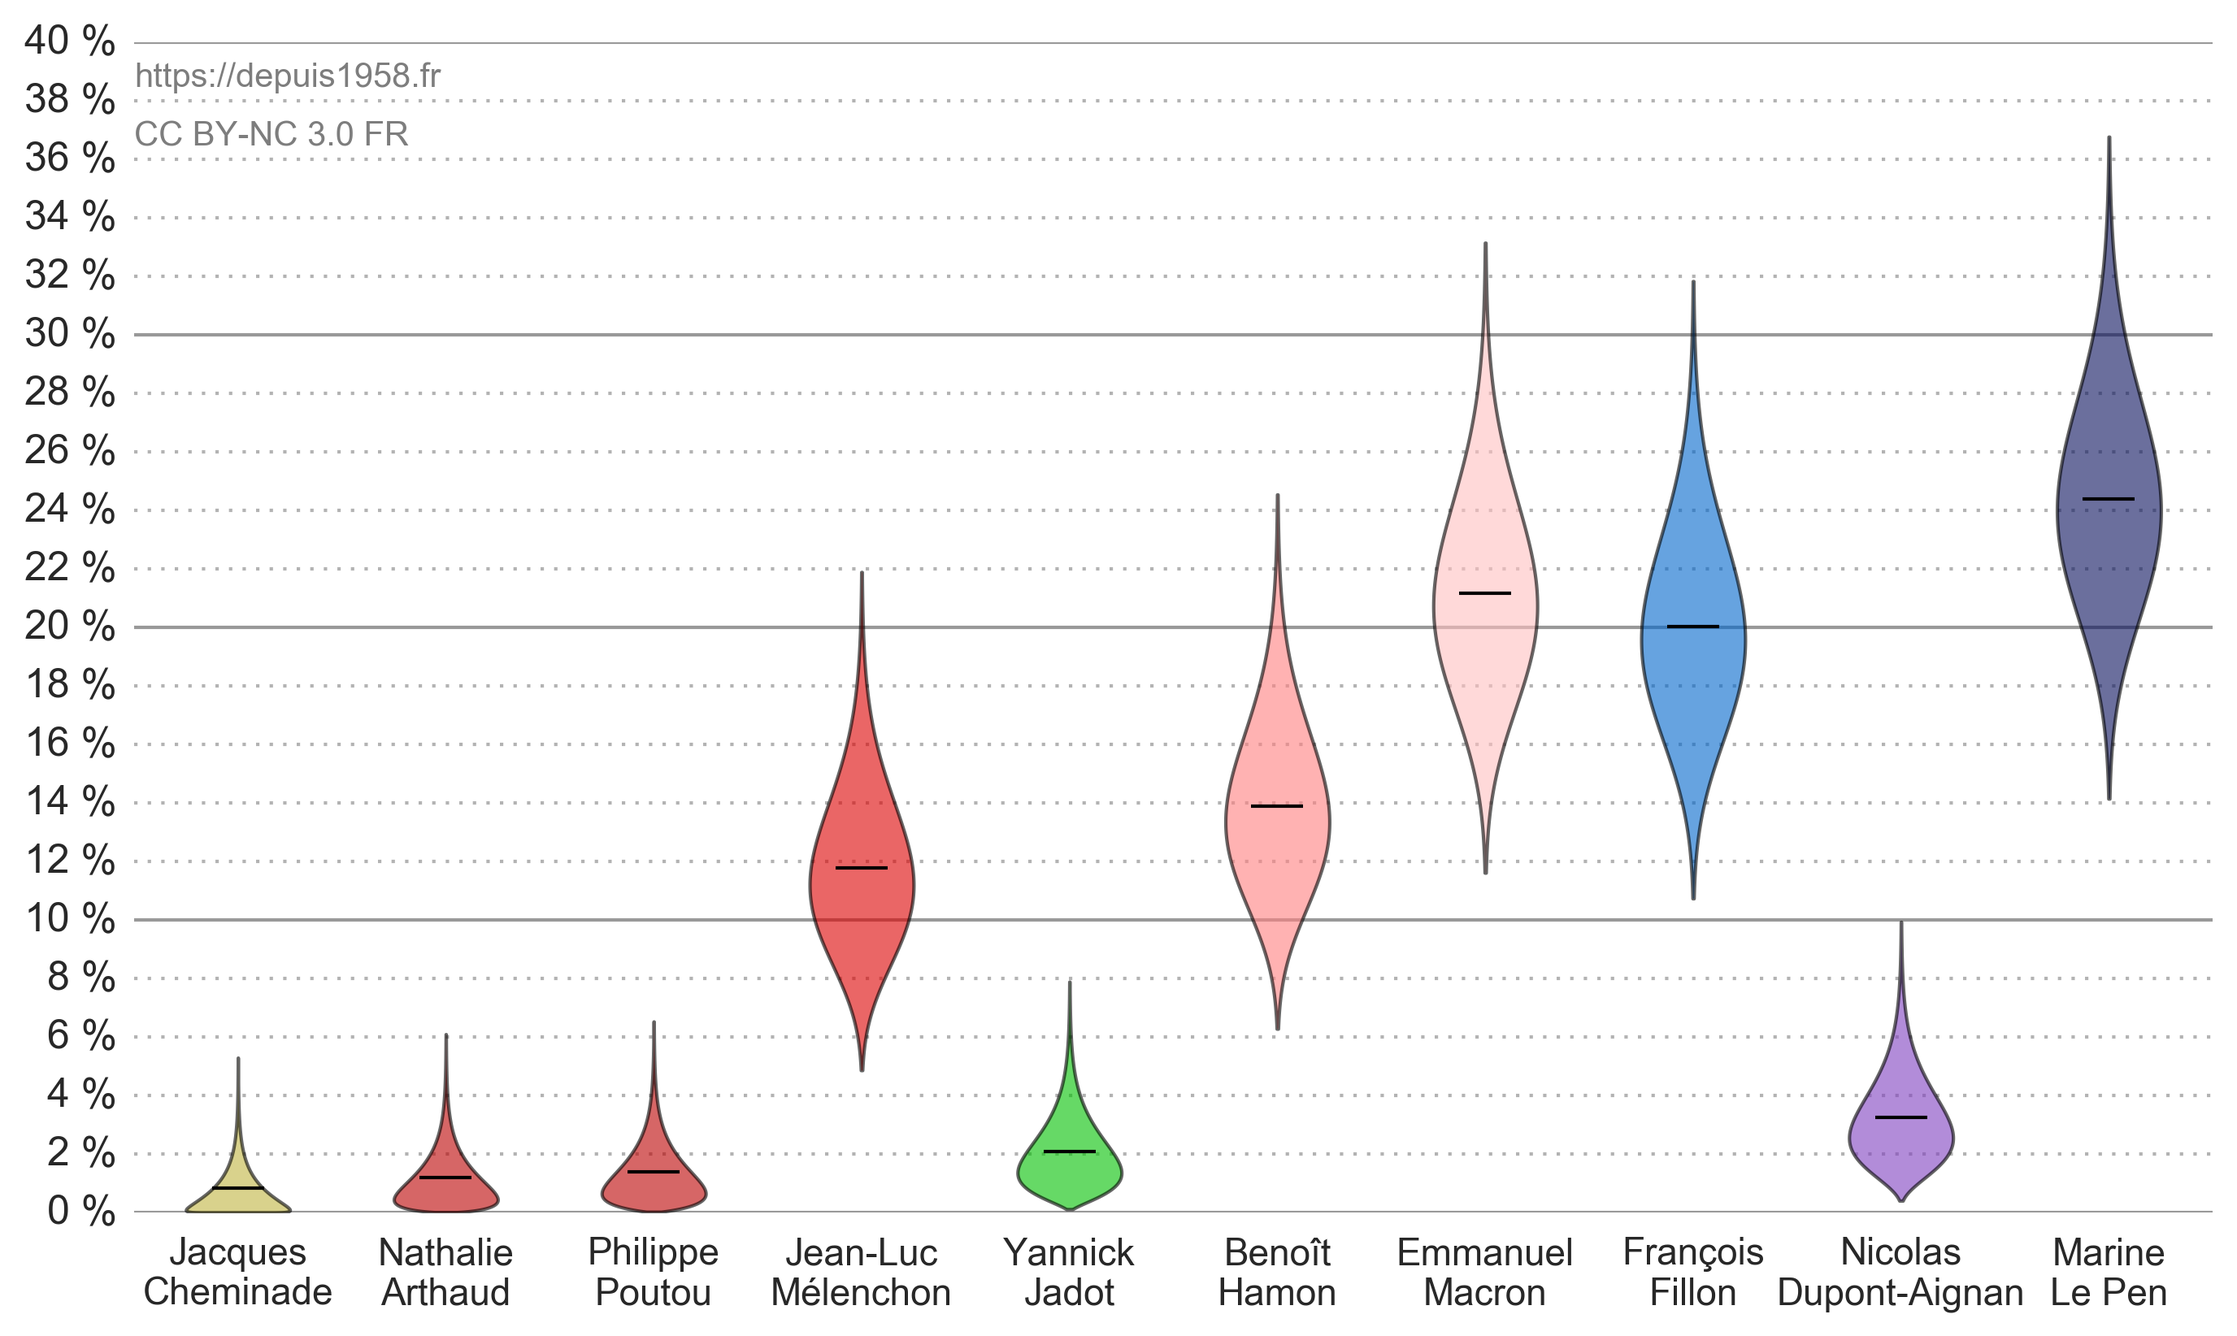
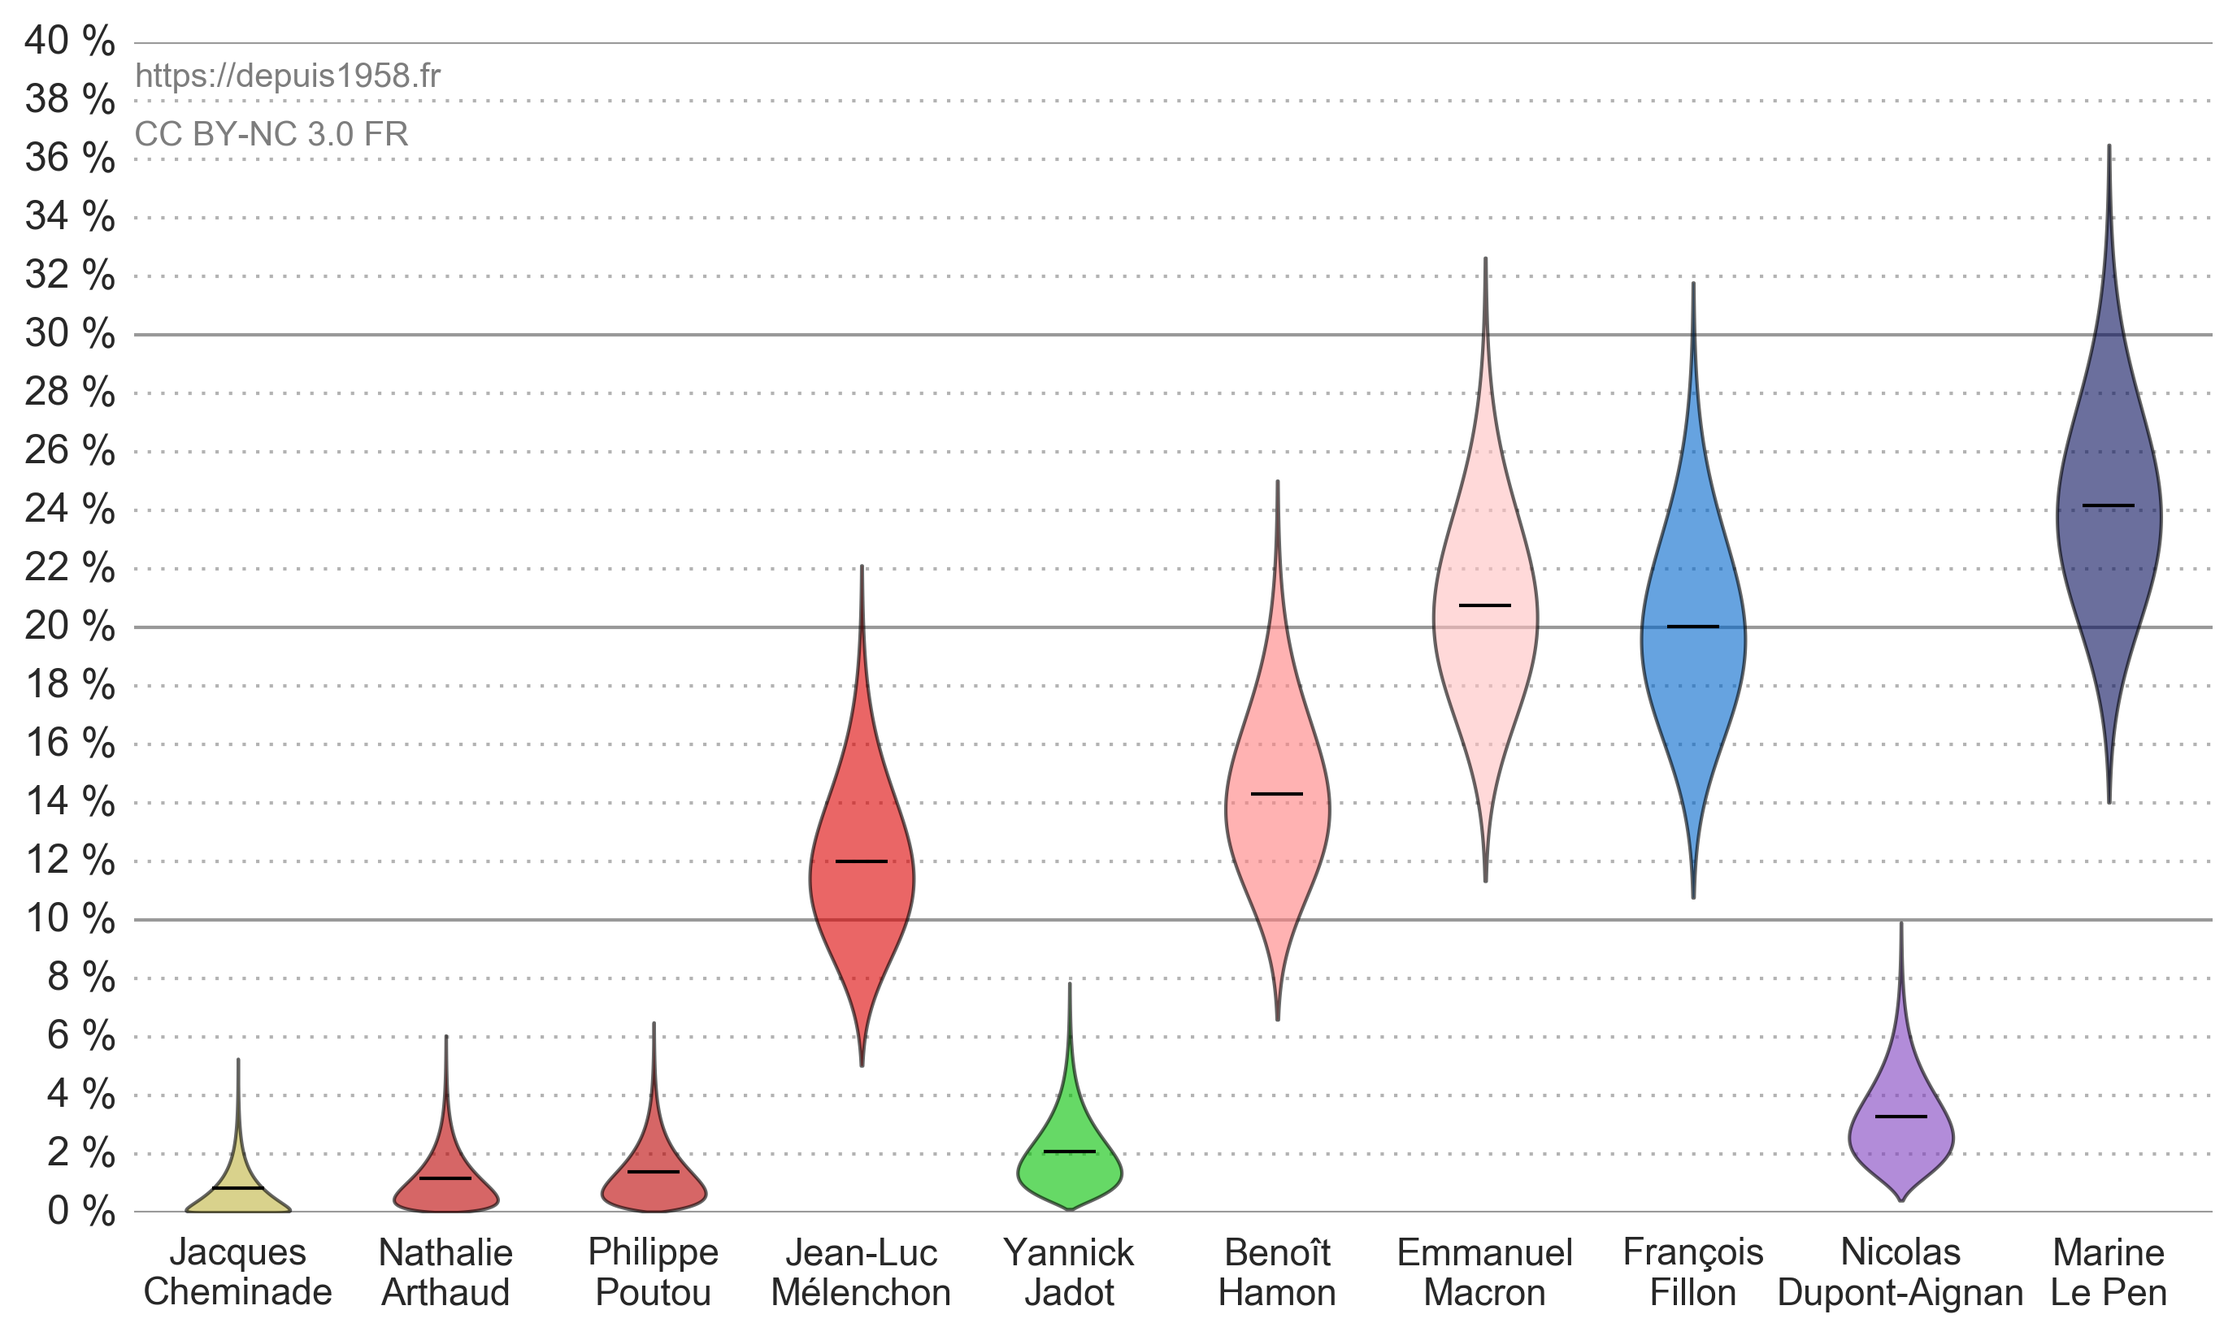
update

diff --git a/public/index.html b/public/index.html
@@ -14,8 +14,8 @@
 <img id="logo" src="/logo.png" alt="Depuis 1958">
 </a>
 <aside>
-    Mis à jour le 08/02/2017 à 22:36<br>
-    40 sondages agrégés<br>
+    Mis à jour le 10/02/2017 à 19:53<br>
+    43 sondages agrégés<br>
     5 000 000 scrutins simulés<br>
 </aside>
 <nav>
@@ -51,7 +51,7 @@ simulation Monte-Carlo. Bref on prédit qui va gagner. Peut&#8209;être.</p>
         <span class="center"><strong>Emmanuel Macron</strong></span>
     <div class="badge" style="background-color:#FFC0C0;"></div>
     </td>
-    <td class="column-percent column-2 percentage">57.9&nbsp;%</td>
+    <td class="column-percent column-2 percentage">54.6&nbsp;%</td>
 </tr>
 
 <tr class="">
@@ -59,7 +59,7 @@ simulation Monte-Carlo. Bref on prédit qui va gagner. Peut&#8209;être.</p>
         <span class="center"><strong>François Fillon</strong></span>
     <div class="badge" style="background-color:#0066CC;"></div>
     </td>
-    <td class="column-percent column-2 percentage">37.1&nbsp;%</td>
+    <td class="column-percent column-2 percentage">39.0&nbsp;%</td>
 </tr>
 
 <tr class="">
@@ -67,7 +67,7 @@ simulation Monte-Carlo. Bref on prédit qui va gagner. Peut&#8209;être.</p>
         <span class="center"><strong>Marine Le Pen</strong></span>
     <div class="badge" style="background-color:#08105c;"></div>
     </td>
-    <td class="column-percent column-2 percentage">2.6&nbsp;%</td>
+    <td class="column-percent column-2 percentage">3.2&nbsp;%</td>
 </tr>
 
 <tr class="">
@@ -75,7 +75,7 @@ simulation Monte-Carlo. Bref on prédit qui va gagner. Peut&#8209;être.</p>
         <span class="center"><strong>Benoît Hamon</strong></span>
     <div class="badge" style="background-color:#FF8080;"></div>
     </td>
-    <td class="column-percent column-2 percentage">1.9&nbsp;%</td>
+    <td class="column-percent column-2 percentage">2.6&nbsp;%</td>
 </tr>
 
 <tr class="">
@@ -83,7 +83,7 @@ simulation Monte-Carlo. Bref on prédit qui va gagner. Peut&#8209;être.</p>
         <span class="center"><strong>Jean-Luc Mélenchon</strong></span>
     <div class="badge" style="background-color:#DD0000;"></div>
     </td>
-    <td class="column-percent column-2 percentage">0.5&nbsp;%</td>
+    <td class="column-percent column-2 percentage">0.6&nbsp;%</td>
 </tr>
 
 <tr class="hiddable">
@@ -152,7 +152,7 @@ deux tours.</p>
 
 <tr class="">
     <td rowspan="2" class="column-percent column-1 percentage">
-        49.2&nbsp;%
+        45.9&nbsp;%
     </td>
     <td class="column-candidate column-2 inner-top">
         <div class="side-badge" style="background-color:#FFC0C0"></div>
@@ -174,7 +174,7 @@ deux tours.</p>
 
 <tr class="">
     <td rowspan="2" class="column-percent column-1 percentage">
-        34.5&nbsp;%
+        36.5&nbsp;%
     </td>
     <td class="column-candidate column-2 inner-top">
         <div class="side-badge" style="background-color:#0066CC"></div>
@@ -196,7 +196,7 @@ deux tours.</p>
 
 <tr class="">
     <td rowspan="2" class="column-percent column-1 percentage">
-        11.5&nbsp;%
+        11.3&nbsp;%
     </td>
     <td class="column-candidate column-2 inner-top">
         <div class="side-badge" style="background-color:#FFC0C0"></div>
@@ -218,7 +218,7 @@ deux tours.</p>
 
 <tr class="">
     <td rowspan="2" class="column-percent column-1 percentage">
-        2.6&nbsp;%
+        3.5&nbsp;%
     </td>
     <td class="column-candidate column-2 inner-top">
         <div class="side-badge" style="background-color:#FF8080"></div>
@@ -240,7 +240,7 @@ deux tours.</p>
 
 <tr class="">
     <td rowspan="2" class="column-percent column-1 percentage">
-        0.7&nbsp;%
+        0.9&nbsp;%
     </td>
     <td class="column-candidate column-2 inner-top">
         <div class="side-badge" style="background-color:#FF8080"></div>
@@ -262,7 +262,7 @@ deux tours.</p>
 
 <tr class="hiddable">
     <td rowspan="2" class="column-percent column-1 percentage">
-        0.7&nbsp;%
+        0.8&nbsp;%
     </td>
     <td class="column-candidate column-2 inner-top">
         <div class="side-badge" style="background-color:#08105c"></div>
@@ -284,7 +284,7 @@ deux tours.</p>
 
 <tr class="hiddable">
     <td rowspan="2" class="column-percent column-1 percentage">
-        0.5&nbsp;%
+        0.7&nbsp;%
     </td>
     <td class="column-candidate column-2 inner-top">
         <div class="side-badge" style="background-color:#0066CC"></div>
@@ -328,7 +328,7 @@ deux tours.</p>
 
 <tr class="hiddable">
     <td rowspan="2" class="column-percent column-1 percentage">
-        0.1&nbsp;%
+        0.2&nbsp;%
     </td>
     <td class="column-candidate column-2 inner-top">
         <div class="side-badge" style="background-color:#0066CC"></div>
@@ -364,28 +364,6 @@ deux tours.</p>
     <td class="column-candidate column-2 inner-bottom">
         <div class="side-badge" style="background-color:#DD0000"></div>
     <strong>Jean-Luc Mélenchon</strong>
-    </td>
-    <td class="column-percent column-3 inner-bottom percentage">
-        -
-    </td>
-</tr>
-
-<tr class="hiddable">
-    <td rowspan="2" class="column-percent column-1 percentage">
-        0.0&nbsp;%
-    </td>
-    <td class="column-candidate column-2 inner-top">
-        <div class="side-badge" style="background-color:#8040C0"></div>
-    <strong>Nicolas Dupont-Aignan</strong>
-    </td>
-    <td class="column-percent column-3 inner-top percentage">
-        -
-    </td>
-</tr>
-<tr class="hiddable">
-    <td class="column-candidate column-2 inner-bottom">
-        <div class="side-badge" style="background-color:#08105c"></div>
-    <strong>Marine Le Pen</strong>
     </td>
     <td class="column-percent column-3 inner-bottom percentage">
         -
@@ -826,6 +804,28 @@ deux tours.</p>
     <td class="column-candidate column-2 inner-bottom">
         <div class="side-badge" style="background-color:#00C000"></div>
     <strong>Yannick Jadot</strong>
+    </td>
+    <td class="column-percent column-3 inner-bottom percentage">
+        -
+    </td>
+</tr>
+
+<tr class="hiddable">
+    <td rowspan="2" class="column-percent column-1 percentage">
+        0.0&nbsp;%
+    </td>
+    <td class="column-candidate column-2 inner-top">
+        <div class="side-badge" style="background-color:#8040C0"></div>
+    <strong>Nicolas Dupont-Aignan</strong>
+    </td>
+    <td class="column-percent column-3 inner-top percentage">
+        -
+    </td>
+</tr>
+<tr class="hiddable">
+    <td class="column-candidate column-2 inner-bottom">
+        <div class="side-badge" style="background-color:#08105c"></div>
+    <strong>Marine Le Pen</strong>
     </td>
     <td class="column-percent column-3 inner-bottom percentage">
         -
@@ -1175,17 +1175,17 @@ et leurs propriétés statistiques sont pris en compte.</p>
     <td class="column-candidate column-1">
         <strong>Marine Le Pen</strong>
     </td>
-    <td class="column-percent percentage">87.0&nbsp;%</td>
-    <td class="column-percent percentage">11.5&nbsp;%</td>
-    <td class="column-percent percentage">96.7&nbsp;%</td>
+    <td class="column-percent percentage">86.7&nbsp;%</td>
+    <td class="column-percent percentage">11.4&nbsp;%</td>
+    <td class="column-percent percentage">96.3&nbsp;%</td>
 </tr>
 
 <tr>
     <td class="column-candidate column-1">
         <strong>Emmanuel Macron</strong>
     </td>
-    <td class="column-percent percentage">61.6&nbsp;%</td>
-    <td class="column-percent percentage">31.2&nbsp;%</td>
+    <td class="column-percent percentage">58.4&nbsp;%</td>
+    <td class="column-percent percentage">32.2&nbsp;%</td>
     <td class="column-percent percentage">-</td>
 </tr>
 
@@ -1193,8 +1193,8 @@ et leurs propriétés statistiques sont pris en compte.</p>
     <td class="column-candidate column-1">
         <strong>François Fillon</strong>
     </td>
-    <td class="column-percent percentage">46.6&nbsp;%</td>
-    <td class="column-percent percentage">41.7&nbsp;%</td>
+    <td class="column-percent percentage">48.7&nbsp;%</td>
+    <td class="column-percent percentage">38.5&nbsp;%</td>
     <td class="column-percent percentage">2.5&nbsp;%</td>
 </tr>
 
@@ -1202,8 +1202,8 @@ et leurs propriétés statistiques sont pris en compte.</p>
     <td class="column-candidate column-1">
         <strong>Benoît Hamon</strong>
     </td>
-    <td class="column-percent percentage">3.8&nbsp;%</td>
-    <td class="column-percent percentage">11.5&nbsp;%</td>
+    <td class="column-percent percentage">5.1&nbsp;%</td>
+    <td class="column-percent percentage">13.3&nbsp;%</td>
     <td class="column-percent percentage">0.0&nbsp;%</td>
 </tr>
 
@@ -1211,9 +1211,9 @@ et leurs propriétés statistiques sont pris en compte.</p>
     <td class="column-candidate column-1">
         <strong>Jean-Luc Mélenchon</strong>
     </td>
-    <td class="column-percent percentage">1.0&nbsp;%</td>
-    <td class="column-percent percentage">4.1&nbsp;%</td>
-    <td class="column-percent percentage">57.0&nbsp;%</td>
+    <td class="column-percent percentage">1.2&nbsp;%</td>
+    <td class="column-percent percentage">4.5&nbsp;%</td>
+    <td class="column-percent percentage">60.1&nbsp;%</td>
 </tr>
 
 <tr>
@@ -1222,7 +1222,7 @@ et leurs propriétés statistiques sont pris en compte.</p>
     </td>
     <td class="column-percent percentage">0.0&nbsp;%</td>
     <td class="column-percent percentage">0.0&nbsp;%</td>
-    <td class="column-percent percentage">83.9&nbsp;%</td>
+    <td class="column-percent percentage">84.1&nbsp;%</td>
 </tr>
 
 <tr>
@@ -1231,7 +1231,7 @@ et leurs propriétés statistiques sont pris en compte.</p>
     </td>
     <td class="column-percent percentage">0.0&nbsp;%</td>
     <td class="column-percent percentage">0.0&nbsp;%</td>
-    <td class="column-percent percentage">71.3&nbsp;%</td>
+    <td class="column-percent percentage">71.0&nbsp;%</td>
 </tr>
 
 <tr>
@@ -1240,7 +1240,7 @@ et leurs propriétés statistiques sont pris en compte.</p>
     </td>
     <td class="column-percent percentage">0.0&nbsp;%</td>
     <td class="column-percent percentage">0.0&nbsp;%</td>
-    <td class="column-percent percentage">76.6&nbsp;%</td>
+    <td class="column-percent percentage">76.4&nbsp;%</td>
 </tr>
 
 <tr>
@@ -1249,7 +1249,7 @@ et leurs propriétés statistiques sont pris en compte.</p>
     </td>
     <td class="column-percent percentage">0.0&nbsp;%</td>
     <td class="column-percent percentage">0.0&nbsp;%</td>
-    <td class="column-percent percentage">35.6&nbsp;%</td>
+    <td class="column-percent percentage">35.3&nbsp;%</td>
 </tr>
 
 <tr>
@@ -1258,7 +1258,7 @@ et leurs propriétés statistiques sont pris en compte.</p>
     </td>
     <td class="column-percent percentage">0.0&nbsp;%</td>
     <td class="column-percent percentage">0.0&nbsp;%</td>
-    <td class="column-percent percentage">50.1&nbsp;%</td>
+    <td class="column-percent percentage">50.0&nbsp;%</td>
 </tr>
 
 </table>
@@ -1267,7 +1267,7 @@ et leurs propriétés statistiques sont pris en compte.</p>
 
 <footer>
 <p>
-Sources: BVA&nbsp;• ELABE pour BFMTV et L’EXPRESS&nbsp;• ELABE pour LES ECHOS et RADIO CLASSIQUE&nbsp;• Ifop – Fiducial pour iTELE, Paris Match et Sud Radio&nbsp;• Ipsos / Sopra Steria pour France 2&nbsp;• Kantar Sofres – OnePoint pour Le Figaro, RTL et LCI&nbsp;• OpinionWay pour Orpi, RADIO CLASSIQUE et LES ECHOS&nbsp;• ©Ipsos CEVIPOF LE MONDE – EEF 2017 .
+Sources: BVA&nbsp;• ELABE pour BFMTV et L’EXPRESS&nbsp;• ELABE pour LES ECHOS et RADIO CLASSIQUE&nbsp;• Ifop – Fiducial pour iTELE, Paris Match et Sud Radio&nbsp;• Ipsos / Sopra Steria pour France 2&nbsp;• Kantar Sofres – OnePoint pour Le Figaro, RTL et LCI&nbsp;• OpinionWay pour Orpi, RADIO CLASSIQUE et LES ECHOS&nbsp;• Sondage OpinionWay/ORPI pour Les Echos & Radio Classique&nbsp;• Sondage OpinionWay/ORPI pour Les Echos & Radio Classique &nbsp;• ©Ipsos CEVIPOF LE MONDE – EEF 2017 .
 </p>
 
 <p>

diff --git a/public/sondages/index.html b/public/sondages/index.html
@@ -13,8 +13,8 @@
 <img id="logo" src="/logo.png" alt="Depuis 1958">
 </a>
 <aside>
-    Mis à jour le 08/02/2017 à 22:36<br>
-    40 sondages agrégés<br>
+    Mis à jour le 10/02/2017 à 19:53<br>
+    43 sondages agrégés<br>
     5 000 000 scrutins simulés<br>
 </aside>
 <nav>
@@ -35,6 +35,8 @@
 
 <ul>
 
+<li><a href="/data/2017/premier-tour-avec-bayrou.csv" download=premier-tour-avec-bayrou.csv>premier-tour-avec-bayrou.csv</a></li>
+
 <li><a href="/data/2017/premier-tour-sans-bayrou.csv" download=premier-tour-sans-bayrou.csv>premier-tour-sans-bayrou.csv</a></li>
 
 <li><a href="/data/2017/second-tour-fillon-lepen.csv" download=second-tour-fillon-lepen.csv>second-tour-fillon-lepen.csv</a></li>
@@ -49,7 +51,7 @@
 
 <footer>
 <p>
-Sources: BVA&nbsp;• ELABE pour BFMTV et L’EXPRESS&nbsp;• ELABE pour LES ECHOS et RADIO CLASSIQUE&nbsp;• Ifop – Fiducial pour iTELE, Paris Match et Sud Radio&nbsp;• Ipsos / Sopra Steria pour France 2&nbsp;• Kantar Sofres – OnePoint pour Le Figaro, RTL et LCI&nbsp;• OpinionWay pour Orpi, RADIO CLASSIQUE et LES ECHOS&nbsp;• ©Ipsos CEVIPOF LE MONDE – EEF 2017 .
+Sources: BVA&nbsp;• ELABE pour BFMTV et L’EXPRESS&nbsp;• ELABE pour LES ECHOS et RADIO CLASSIQUE&nbsp;• Ifop – Fiducial pour iTELE, Paris Match et Sud Radio&nbsp;• Ipsos / Sopra Steria pour France 2&nbsp;• Kantar Sofres – OnePoint pour Le Figaro, RTL et LCI&nbsp;• OpinionWay pour Orpi, RADIO CLASSIQUE et LES ECHOS&nbsp;• Sondage OpinionWay/ORPI pour Les Echos & Radio Classique&nbsp;• Sondage OpinionWay/ORPI pour Les Echos & Radio Classique &nbsp;• ©Ipsos CEVIPOF LE MONDE – EEF 2017 .
 </p>
 
 <p>

diff --git a/public/methodologie/index.html b/public/methodologie/index.html
@@ -16,8 +16,8 @@
 <img id="logo" src="/logo.png" alt="Depuis 1958">
 </a>
 <aside>
-    Mis à jour le 08/02/2017 à 22:36<br>
-    40 sondages agrégés<br>
+    Mis à jour le 10/02/2017 à 19:53<br>
+    43 sondages agrégés<br>
     5 000 000 scrutins simulés<br>
 </aside>
 <nav>
@@ -191,7 +191,7 @@ aucun sondage n'envisage l'hypothèse \(S_{AB}\) on prend un apriori uniforme
 
 <footer>
 <p>
-Sources: BVA&nbsp;• ELABE pour BFMTV et L’EXPRESS&nbsp;• ELABE pour LES ECHOS et RADIO CLASSIQUE&nbsp;• Ifop – Fiducial pour iTELE, Paris Match et Sud Radio&nbsp;• Ipsos / Sopra Steria pour France 2&nbsp;• Kantar Sofres – OnePoint pour Le Figaro, RTL et LCI&nbsp;• OpinionWay pour Orpi, RADIO CLASSIQUE et LES ECHOS&nbsp;• ©Ipsos CEVIPOF LE MONDE – EEF 2017 .
+Sources: BVA&nbsp;• ELABE pour BFMTV et L’EXPRESS&nbsp;• ELABE pour LES ECHOS et RADIO CLASSIQUE&nbsp;• Ifop – Fiducial pour iTELE, Paris Match et Sud Radio&nbsp;• Ipsos / Sopra Steria pour France 2&nbsp;• Kantar Sofres – OnePoint pour Le Figaro, RTL et LCI&nbsp;• OpinionWay pour Orpi, RADIO CLASSIQUE et LES ECHOS&nbsp;• Sondage OpinionWay/ORPI pour Les Echos & Radio Classique&nbsp;• Sondage OpinionWay/ORPI pour Les Echos & Radio Classique &nbsp;• ©Ipsos CEVIPOF LE MONDE – EEF 2017 .
 </p>
 
 <p>

diff --git a/public/2012/index.html b/public/2012/index.html
@@ -14,7 +14,7 @@
 <img id="logo" src="/logo.png" alt="Depuis 1958">
 </a>
 <aside>
-    Mis à jour le 08/02/2017 à 22:35<br>
+    Mis à jour le 10/02/2017 à 19:53<br>
     55 sondages agrégés<br>
     5 000 000 scrutins simulés<br>
 </aside>
@@ -1177,7 +1177,7 @@ et leurs propriétés statistiques sont pris en compte.</p>
     </td>
     <td class="column-percent percentage">100.0&nbsp;%</td>
     <td class="column-percent percentage">0.0&nbsp;%</td>
-    <td class="column-percent percentage">30.5&nbsp;%</td>
+    <td class="column-percent percentage">30.6&nbsp;%</td>
 </tr>
 
 <tr>
@@ -1222,7 +1222,7 @@ et leurs propriétés statistiques sont pris en compte.</p>
     </td>
     <td class="column-percent percentage">0.0&nbsp;%</td>
     <td class="column-percent percentage">0.2&nbsp;%</td>
-    <td class="column-percent percentage">77.2&nbsp;%</td>
+    <td class="column-percent percentage">77.3&nbsp;%</td>
 </tr>
 
 <tr>
@@ -1258,7 +1258,7 @@ et leurs propriétés statistiques sont pris en compte.</p>
     </td>
     <td class="column-percent percentage">0.0&nbsp;%</td>
     <td class="column-percent percentage">0.0&nbsp;%</td>
-    <td class="column-percent percentage">75.3&nbsp;%</td>
+    <td class="column-percent percentage">75.2&nbsp;%</td>
 </tr>
 
 </table>
